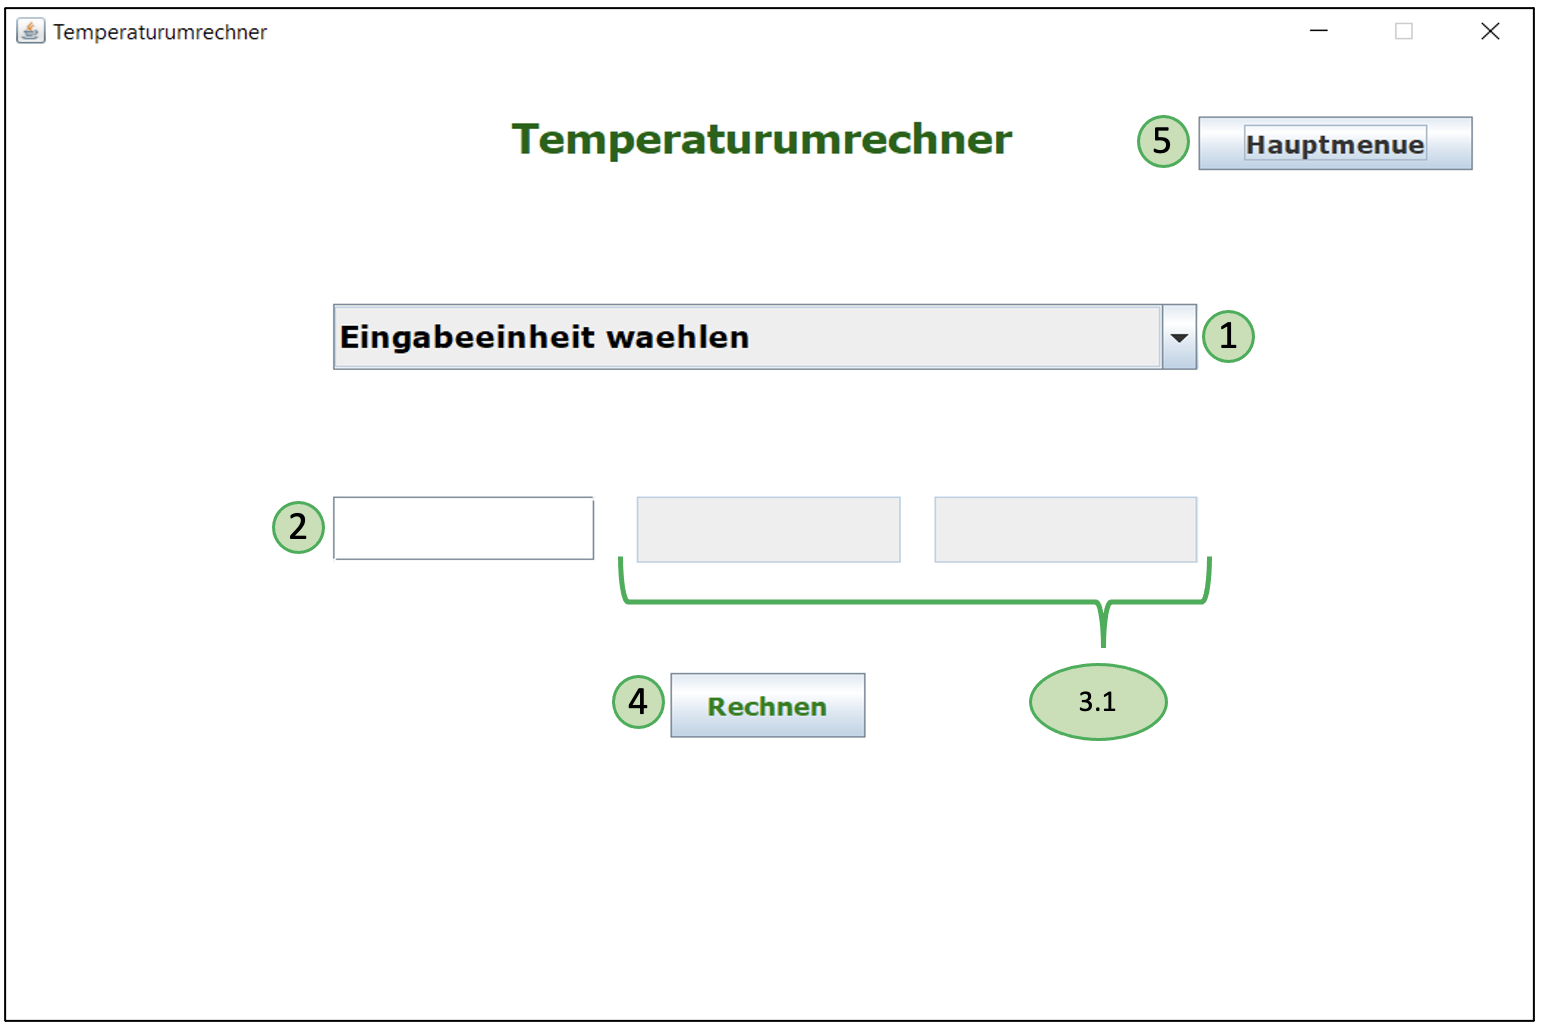
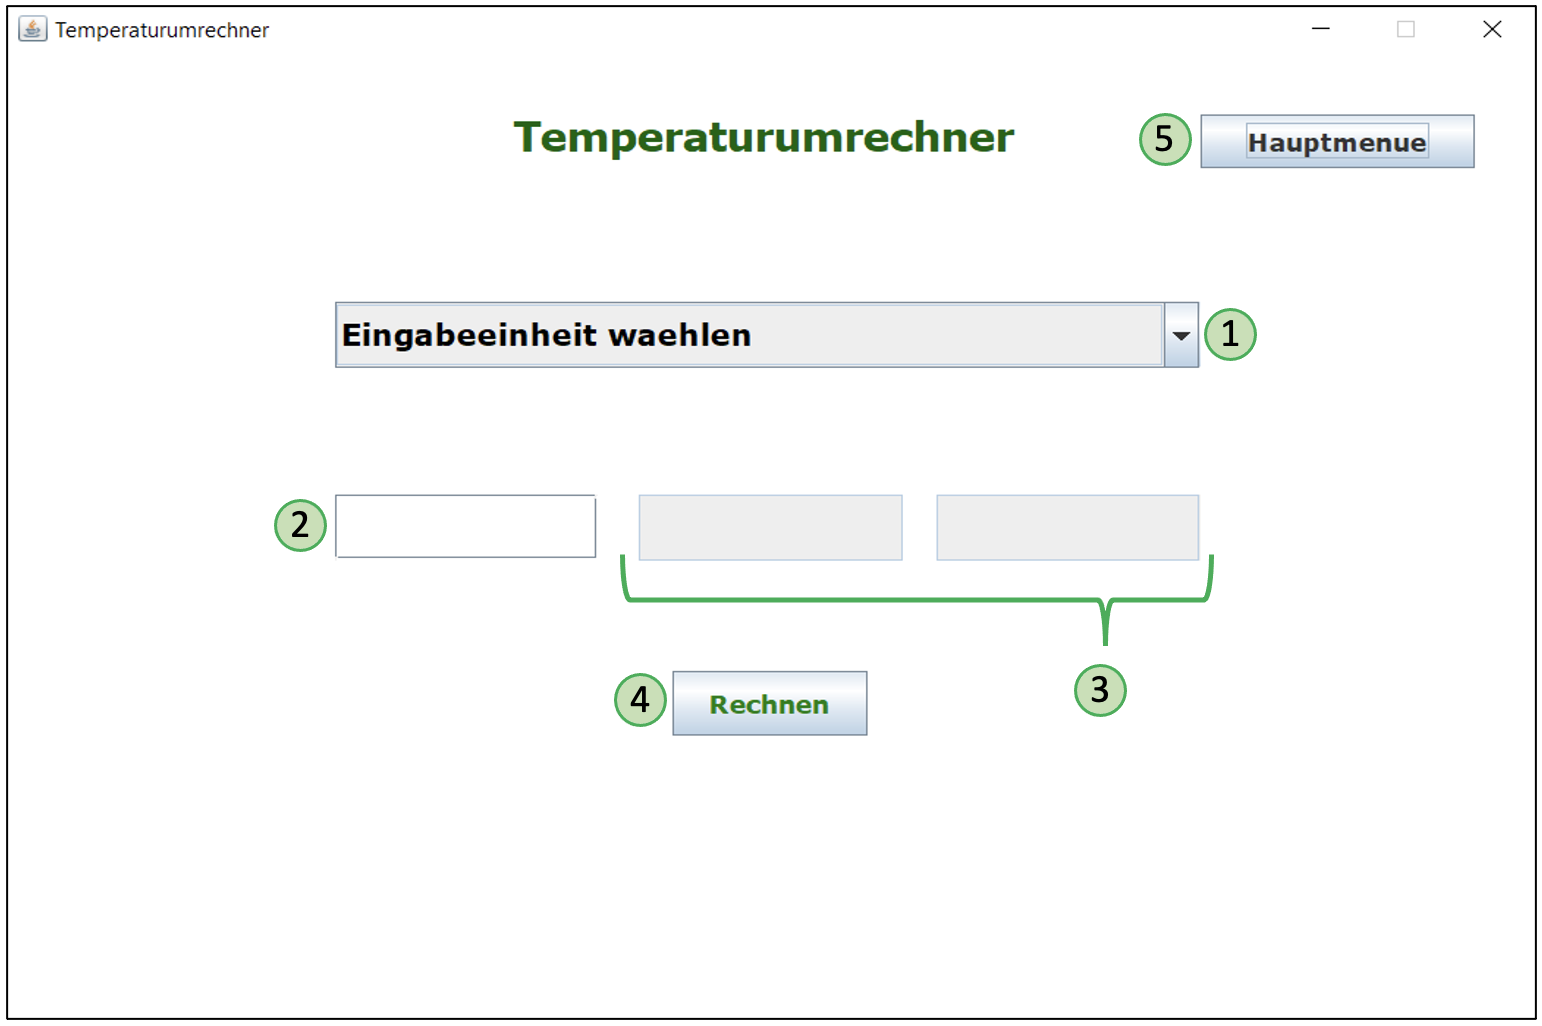
Handbuch

diff --git a/3_Dokumentation/Handbuch/index.html b/3_Dokumentation/Handbuch/index.html
@@ -30,7 +30,7 @@
   <li>Leon Welker (leon.tenzin.welker@hs-furtwangen.de)</li>
 </ul>
 
---------------------------------------------------------------------------------------------------------------------------------------
+--------------------------------------------------------------------------------------------------------------------------------------------------------------------------------------------------------------------------------------------------------------------------
 
 <main> </main>
 <h2>Einleitung</h2>
@@ -43,7 +43,6 @@ und k&ouml;nnen die L&ouml;sung im Handumdrehen in der gew&uuml;nschten
 Einheit ablesen.<br>
 <br>
 
---------------------------------------------------------------------------------------------------------------------------------------
 
 <big><big><span style="font-weight: bold;">Schritt-f&uuml;r-Schritt-Anleitung:</span></big></big><br>
 <br>
@@ -76,7 +75,6 @@ Wird das Programm gestartet, öffnet sich das unten gezeigte Fenster und der Nut
 </table>
 <br>
 
---------------------------------------------------------------------------------------------------------------------------------------
 
 <img style="width: 707px; height: 432px;" alt="Bild Hauptmen&uuml;" src="images/Hauptmenue.png"><br>
 <br>
@@ -115,37 +113,36 @@ durch Auswahl eines Elements aus dem Drop-Down-Men&uuml;.</td>
 <br>
 <img style="width: 608px; height: 435px;" alt="Bild Einheitenumrechner" src="images/Einheitenumrechner.png">&nbsp;<footer></footer>
 </body>
+<p>
 
---------------------------------------------------------------------------------------------------------------------------------------
 
 <big><span style="font-weight: bold;">3. Flächen- & Volumenrechner</span></big><br>
+[Da sich Flächen und Volumenrechner analog Verhalten werden sie im folgenden Abschnitt gemeinsam betrachtet.]
 <br>
 <table style="text-align: left; width: 927px; height: 172px;" border="1" cellpadding="2" cellspacing="2">
   <tbody>
     <tr>
       <td style="width: 37px;">1.</td>
-      <td style="width: 1186px;">W&auml;hlen der gew&uuml;nschten
-geometrischen Gr&ouml;&szlig;e (L&auml;nge/Fl&auml;che/Volumen/Gewicht)
-durch Auswahl eines Elements aus dem Drop-Down-Men&uuml;.</td>
+      <td style="width: 1186px;">Übersicht der Wahlmöglichkeiten im Drop Down Menüs</td>
+    </tr>
+ <tr>
+      <td style="width: 37px;">1.1.</td>
+      <td style="width: 1186px;">Auswahlmöglichkeiten der geometrischen Formen oder des Körpers</td>
     </tr>
     <tr>
       <td style="width: 37px;">2.</td>
-      <td style="width: 1186px;">W&auml;hlen der gew&uuml;nschten mathematischen Eingabeeinheit aus dem Drop-Down-Men&uuml;.</td>
-    </tr>
-    <tr>
-      <td style="width: 37px;">3.</td>
-      <td style="width: 1186px;">W&auml;hlen der gew&uuml;nschten mathematischen Ausgabeeinheit aus dem Drop-Down-Men&uuml;.</td>
-    </tr>
-    <tr>
-      <td style="width: 37px;">4.</td>
       <td style="width: 1186px;">Eingabe des entsprechenden Eingabewerts (Kommazahlen mit Punkt "." und <span style="text-decoration: underline;">nicht</span> mit Komma ","!)</td>
     </tr>
     <tr>
-      <td style="width: 37px;">5.</td>
-      <td style="width: 1186px;">Starten des Einheitenumrechners durch Klicken auf den "Start"-Button.</td>
+      <td style="width: 37px;">3.</td>
+      <td style="width: 1186px;">Start der Berechnung durch das drücken des "Rechnen" Buttons</td>
     </tr>
     <tr>
-      <td style="width: 37px;">6.</td>
+      <td style="width: 37px;">4.</td>
+      <td style="width: 1186px;">Ausgabefeld des berechnenten Wertes</td>
+    </tr>
+    <tr>
+      <td style="width: 37px;">5.</td>
       <td style="width: 1186px;">Um zum Hauptmen&uuml; zur&uuml;ckzugelangen, den "Hauptmen&uuml;"-Button dr&uuml;cken</td>
     </tr>
   </tbody>
@@ -156,36 +153,36 @@ durch Auswahl eines Elements aus dem Drop-Down-Men&uuml;.</td>
 <img style="width: 608px; height: 435px;" alt="Bild Volumenrechner" src="images/Volumenrechner.png">&nbsp;<footer></footer>
 <img style="width: 608px; height: 435px;" alt="Bild VolumenrechnerDD" src="images/VolumenrechnerDD.png">&nbsp;<footer></footer>
 </body>
+<p>
 
---------------------------------------------------------------------------------------------------------------------------------------
+
 <big><span style="font-weight: bold;">4. Temperaturumenrechner</span></big><br>
 <br>
 <table style="text-align: left; width: 927px; height: 172px;" border="1" cellpadding="2" cellspacing="2">
   <tbody>
     <tr>
       <td style="width: 37px;">1.</td>
-      <td style="width: 1186px;">W&auml;hlen der gew&uuml;nschten
-geometrischen Gr&ouml;&szlig;e (L&auml;nge/Fl&auml;che/Volumen/Gewicht)
+      <td style="width: 1186px;">W&auml;hlen der gewünschten Temperatureinheit(°Celsius/°Fahrenheit/Kelvin)
 durch Auswahl eines Elements aus dem Drop-Down-Men&uuml;.</td>
     </tr>
     <tr>
+      <td style="width: 37px;">1.1.</td>
+      <td style="width: 1186px;">Drop-Down-Men&uuml;.</td>
+    </tr>
+    <tr>
       <td style="width: 37px;">2.</td>
-      <td style="width: 1186px;">W&auml;hlen der gew&uuml;nschten mathematischen Eingabeeinheit aus dem Drop-Down-Men&uuml;.</td>
-    </tr>
-    <tr>
-      <td style="width: 37px;">3.</td>
-      <td style="width: 1186px;">W&auml;hlen der gew&uuml;nschten mathematischen Ausgabeeinheit aus dem Drop-Down-Men&uuml;.</td>
-    </tr>
-    <tr>
-      <td style="width: 37px;">4.</td>
       <td style="width: 1186px;">Eingabe des entsprechenden Eingabewerts (Kommazahlen mit Punkt "." und <span style="text-decoration: underline;">nicht</span> mit Komma ","!)</td>
     </tr>
     <tr>
-      <td style="width: 37px;">5.</td>
-      <td style="width: 1186px;">Starten des Einheitenumrechners durch Klicken auf den "Start"-Button.</td>
+      <td style="width: 37px;">3.</td>
+      <td style="width: 1186px;">Ausgabefelder für die anderen beiden Einheiten</td>
     </tr>
     <tr>
-      <td style="width: 37px;">6.</td>
+      <td style="width: 37px;">4.</td>
+      <td style="width: 1186px;">Starten des Temperaturumrechners durch Klicken auf den "Start"-Button</td>
+    </tr>
+    <tr>
+      <td style="width: 37px;">5.</td>
       <td style="width: 1186px;">Um zum Hauptmen&uuml; zur&uuml;ckzugelangen, den "Hauptmen&uuml;"-Button dr&uuml;cken</td>
     </tr>
   </tbody>
@@ -197,9 +194,6 @@ durch Auswahl eines Elements aus dem Drop-Down-Men&uuml;.</td>
 </body>
 
 
-
-
---------------------------------------------------------------------------------------------------------------------------------------
 
 </html>
 
